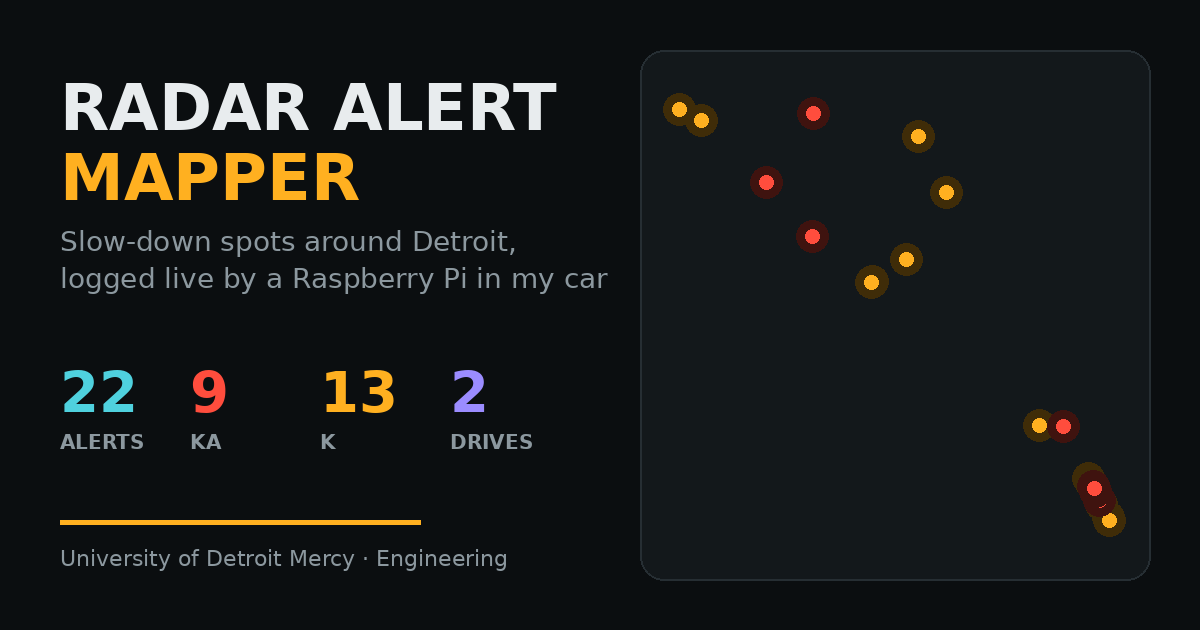
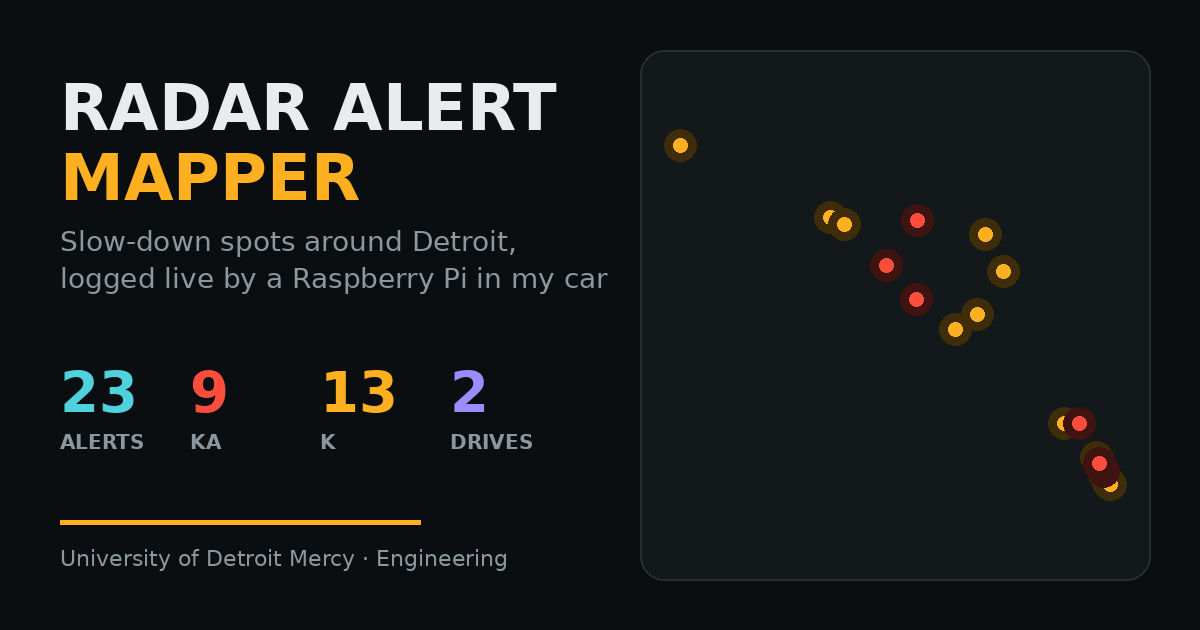
Update map: 68 alerts

diff --git a/data.js b/data.js
@@ -1,1 +1,1 @@
-window.RADAR_DATA = {"updated":"2026-10-30 18:27:30","alerts":[{"t":"2026-10-25 21:41:58","lat":42.416682,"lon":-83.160488,"band":"K","freq":"24.137","len":59.5,"bars":7.0,"status":"False","reason":"muted","photo":"photos/20261025_214158_K.jpg","heading":null,"arrow":"ahead","near":"near Wyoming Street","near_m":8},{"t":"2026-10-25 21:44:04","lat":42.416241,"lon":-83.160294,"band":"K","freq":"24.185","len":4.1,"bars":3.0,"status":"False","reason":"muted","photo":"photos/20261025_214404_K.jpg","heading":"NW","arrow":"ahead","near":"The Q Rental Hall, Wyoming Street","near_m":80},{"t":"2026-10-25 21:44:11","lat":42.416369,"lon":-83.160516,"band":"K","freq":"24.185","len":273.2,"bars":7.0,"status":"False","reason":"muted","photo":"photos/20261025_214411_K.jpg","heading":null,"arrow":"behind","near":"CVS Pharmacy, West McNichols Road","near_m":33},{"t":"2026-10-25 21:51:23","lat":42.416702,"lon":-83.160348,"band":"K","freq":"24.185","len":8.3,"bars":3.0,"status":"Valid","reason":"","photo":"photos/20261025_215123_K.jpg","heading":"S","arrow":"behind"},{"t":"2026-10-25 21:58:33","lat":42.366629,"lon":-83.081553,"band":"K","freq":"24.181","len":27.3,"bars":3.0,"status":"Valid","reason":"","photo":"photos/20261025_215833_K.jpg","heading":"SE","arrow":"ahead"},{"t":"2026-10-25 22:01:44","lat":42.327806,"lon":-83.048029,"band":"K","freq":"24.140","len":1.5,"bars":0.0,"status":"False","reason":"muted","photo":"photos/20261025_220144_K.jpg","heading":"NW","arrow":"ahead","near":"Fort Pontchartrain Detroit a Wyndham Hotel, Washington Boulevard","near_m":35},{"t":"2026-10-25 22:03:01","lat":42.330727,"lon":-83.047393,"band":"K","freq":"24.180","len":32.5,"bars":7.0,"status":"False","reason":"muted","photo":"photos/20261025_220301_K.jpg","heading":"N","arrow":"ahead","near":"near Fort Street West","near_m":2},{"t":"2026-10-25 22:03:35","lat":42.331725,"lon":-83.04889,"band":"K","freq":"24.180","len":1.5,"bars":0.0,"status":"False","reason":"muted","photo":"photos/20261025_220335_K.jpg","heading":"W","arrow":"behind","near":"Tip Toe Shoe Repair, Michigan Avenue","near_m":25},{"t":"2026-10-25 22:04:08","lat":42.33176,"lon":-83.050674,"band":"K","freq":"24.174","len":4.5,"bars":3.0,"status":"False","reason":"muted","photo":"photos/20261025_220408_K.jpg","heading":"NW","arrow":"behind","near":"The Westin Book Cadillac Detroit, Washington Boulevard","near_m":46},{"t":"2026-10-25 22:07:15","lat":42.337064,"lon":-83.050627,"band":"K","freq":"24.123","len":9.5,"bars":3.0,"status":"False","reason":"muted","photo":"photos/20261025_220715_K.jpg","heading":"SW","arrow":"behind","near":"near Adams Avenue East","near_m":36},{"t":"2026-10-25 22:08:50","lat":42.334785,"lon":-83.049314,"band":"K","freq":"24.137","len":17.8,"bars":2.0,"status":"False","reason":"muted","photo":"photos/20261025_220850_K.jpg","heading":null,"arrow":"side","near":"Warby Parker, Woodward Avenue","near_m":15},{"t":"2026-10-25 22:30:01","lat":42.330438,"lon":-83.043528,"band":"K","freq":"24.220","len":1.5,"bars":0.0,"status":"False","reason":"muted","photo":"photos/20261025_223001_K.jpg","heading":"NE","arrow":"ahead","near":"Two Detroit Center Garage, East Congress Street","near_m":36},{"t":"2026-10-25 22:30:07","lat":42.330479,"lon":-83.043534,"band":"K","freq":"24.220","len":1.5,"bars":0.0,"status":"False","reason":"muted","photo":"photos/20261025_223007_K.jpg","heading":"NE","arrow":"ahead","near":"Two Detroit Center Garage, East Congress Street","near_m":32},{"t":"2026-10-25 22:30:10","lat":42.330494,"lon":-83.043529,"band":"K","freq":"24.220","len":1.5,"bars":0.0,"status":"False","reason":"muted","photo":"photos/20261025_223010_K.jpg","heading":"NE","arrow":"ahead","near":"Two Detroit Center Garage, East Congress Street","near_m":30},{"t":"2026-10-25 22:30:13","lat":42.33047,"lon":-83.04346,"band":"K","freq":"24.220","len":1.5,"bars":0.0,"status":"False","reason":"muted","photo":"photos/20261025_223013_K.jpg","heading":"NE","arrow":"ahead","near":"Two Detroit Center Garage, East Congress Street","near_m":31},{"t":"2026-10-25 22:30:17","lat":42.330403,"lon":-83.043324,"band":"K","freq":"24.220","len":1.5,"bars":0.0,"status":"False","reason":"muted","photo":"photos/20261025_223017_K.jpg","heading":"NE","arrow":"ahead","near":"Two Detroit Center Garage, East Congress Street","near_m":38},{"t":"2026-10-25 22:30:20","lat":42.330382,"lon":-83.043276,"band":"K","freq":"24.220","len":1.5,"bars":0.0,"status":"False","reason":"muted","photo":"photos/20261025_223020_K.jpg","heading":"NE","arrow":"ahead","near":"Two Detroit Center Garage, East Congress Street","near_m":41},{"t":"2026-10-25 22:30:23","lat":42.33039,"lon":-83.043252,"band":"K","freq":"24.220","len":1.5,"bars":0.0,"status":"False","reason":"muted","photo":"photos/20261025_223023_K.jpg","heading":"NE","arrow":"ahead","near":"Two Detroit Center Garage, East Congress Street","near_m":41},{"t":"2026-10-25 22:30:26","lat":42.330412,"lon":-83.043241,"band":"K","freq":"24.220","len":1.5,"bars":0.0,"status":"False","reason":"muted","photo":"photos/20261025_223026_K.jpg","heading":"NE","arrow":"ahead","near":"Two Detroit Center Garage, East Congress Street","near_m":39},{"t":"2026-10-25 22:30:30","lat":42.330453,"lon":-83.043238,"band":"K","freq":"24.220","len":1.5,"bars":0.0,"status":"False","reason":"muted","photo":"photos/20261025_223030_K.jpg","heading":"NE","arrow":"ahead","near":"Two Detroit Center Garage, East Congress Street","near_m":35},{"t":"2026-10-25 22:30:36","lat":42.33047,"lon":-83.043249,"band":"K","freq":"24.220","len":1.5,"bars":0.0,"status":"False","reason":"muted","photo":"photos/20261025_223036_K.jpg","heading":"NE","arrow":"ahead","near":"Two Detroit Center Garage, East Congress Street","near_m":32},{"t":"2026-10-25 22:30:40","lat":42.330488,"lon":-83.043251,"band":"K","freq":"24.220","len":1.5,"bars":0.0,"status":"False","reason":"muted","photo":"photos/20261025_223040_K.jpg","heading":"NE","arrow":"ahead","near":"Two Detroit Center Garage, East Congress Street","near_m":31},{"t":"2026-10-25 22:30:43","lat":42.330514,"lon":-83.043269,"band":"K","freq":"24.220","len":1.5,"bars":0.0,"status":"False","reason":"muted","photo":"photos/20261025_223043_K.jpg","heading":"NE","arrow":"ahead","near":"Two Detroit Center Garage, East Congress Street","near_m":27},{"t":"2026-10-25 22:30:46","lat":42.330529,"lon":-83.043284,"band":"K","freq":"24.220","len":1.6,"bars":0.0,"status":"False","reason":"muted","photo":"photos/20261025_223046_K.jpg","heading":"NE","arrow":"side","near":"Two Detroit Center Garage, East Congress Street","near_m":25},{"t":"2026-10-25 22:30:49","lat":42.33054,"lon":-83.043301,"band":"K","freq":"24.220","len":1.6,"bars":0.0,"status":"False","reason":"muted","photo":"photos/20261025_223049_K.jpg","heading":"NE","arrow":"side","near":"Two Detroit Center Garage, East Congress Street","near_m":24},{"t":"2026-10-25 22:44:37","lat":42.352398,"lon":-83.045351,"band":"K","freq":"24.182","len":13.1,"bars":3.0,"status":"False","reason":"muted","photo":"photos/20261025_224437_K.jpg","heading":"SW","arrow":"behind","near":"near Mack Avenue","near_m":10},{"t":"2026-10-25 22:55:59","lat":42.33385,"lon":-83.048782,"band":"K","freq":"24.121","len":35.9,"bars":4.0,"status":"False","reason":"muted","photo":"photos/20261025_225559_K.jpg","heading":null,"arrow":"behind","near":"Lofts of Merchants Row Garage, Woodward Avenue","near_m":14},{"t":"2026-10-25 23:14:12","lat":42.343618,"lon":-83.055203,"band":"Ka","freq":"34.673","len":29.6,"bars":1.0,"status":"Valid","reason":"","photo":"photos/20261025_231412_Ka.jpg","heading":"NW","arrow":"ahead"},{"t":"2026-10-25 23:15:01","lat":42.345321,"lon":-83.056324,"band":"Ka","freq":"34.673","len":24.9,"bars":1.0,"status":"Valid","reason":"","photo":"photos/20261025_231501_Ka.jpg","heading":null,"arrow":"ahead"},{"t":"2026-10-25 23:15:01","lat":42.345321,"lon":-83.056324,"band":"K","freq":"24.104","len":3.4,"bars":1.0,"status":"False","reason":"muted","photo":"photos/20261025_231501_K.jpg","heading":"NW","arrow":"behind","near":"near Woodward Avenue","near_m":52},{"t":"2026-10-25 23:24:02","lat":42.33933,"lon":-83.052561,"band":"K","freq":"24.099","len":5.9,"bars":3.0,"status":"Valid","reason":"","photo":"photos/20261025_232402_K.jpg","heading":"SE","arrow":"behind"},{"t":"2026-10-25 23:24:57","lat":42.334697,"lon":-83.049344,"band":"K","freq":"24.122","len":18.3,"bars":4.0,"status":"Valid","reason":"","photo":"photos/20261025_232457_K.jpg","heading":"SE","arrow":"behind"},{"t":"2026-10-25 23:28:14","lat":42.334718,"lon":-83.049139,"band":"K","freq":"24.122","len":25.1,"bars":6.0,"status":"False","reason":"muted","photo":"photos/20261025_232814_K.jpg","heading":null,"arrow":"behind","near":"House of Pure Vin, Woodward Avenue","near_m":29},{"t":"2026-10-25 23:29:46","lat":42.340766,"lon":-83.053368,"band":"Ka","freq":"34.673","len":12.9,"bars":1.0,"status":"Valid","reason":"","photo":"photos/20261025_232946_Ka.jpg","heading":"NW","arrow":"ahead"},{"t":"2026-10-25 23:30:07","lat":42.343833,"lon":-83.055476,"band":"Ka","freq":"34.673","len":30.0,"bars":1.0,"status":"Valid","reason":"","photo":"photos/20261025_233007_Ka.jpg","heading":"NW","arrow":"ahead"},{"t":"2026-10-25 23:33:33","lat":42.366143,"lon":-83.070489,"band":"Ka","freq":"34.665","len":53.5,"bars":5.0,"status":"Valid","reason":"","photo":"photos/20261025_233333_Ka.jpg","heading":"NW","arrow":"behind"},{"t":"2026-10-25 23:43:45","lat":42.447365,"lon":-83.125508,"band":"K","freq":"24.232","len":14.2,"bars":5.0,"status":"Valid","reason":"","photo":"photos/20261025_234345_K.jpg","heading":"NW","arrow":"ahead"},{"t":"2026-10-25 23:46:35","lat":42.466988,"lon":-83.138698,"band":"K","freq":"24.132","len":8.7,"bars":2.0,"status":"Valid","reason":"","photo":"photos/20261025_234635_K.jpg","heading":"NW","arrow":"behind"},{"t":"2026-10-25 23:50:29","lat":42.474777,"lon":-83.187967,"band":"Ka","freq":"34.719","len":14.7,"bars":1.0,"status":"Valid","reason":"","photo":"photos/20261025_235029_Ka.jpg","heading":"W","arrow":"ahead"},{"t":"2026-10-30 02:11:33","lat":42.424402,"lon":-83.144176,"band":"K","freq":"24.154","len":110.3,"bars":8.0,"status":"Valid","reason":"","photo":"photos/20261030_021133_K.jpg","heading":null,"arrow":"ahead"},{"t":"2026-10-30 02:18:23","lat":42.416547,"lon":-83.188844,"band":"K","freq":"24.142","len":24.1,"bars":8.0,"status":"False","reason":"muted","photo":"photos/20261030_021823_K.jpg","heading":"NW","arrow":"ahead","near":"Valero, West McNichols Road","near_m":30},{"t":"2026-10-30 02:18:55","lat":42.417406,"lon":-83.190049,"band":"K","freq":"24.142","len":6.1,"bars":4.0,"status":"False","reason":"muted","photo":"photos/20261030_021855_K.jpg","heading":"SE","arrow":"ahead","near":"Randolph Career and Technical Center, Hubbell Street","near_m":81},{"t":"2026-10-30 02:19:54","lat":42.417364,"lon":-83.189656,"band":"K","freq":"24.142","len":154.9,"bars":8.0,"status":"False","reason":"muted","photo":"photos/20261030_021954_K.jpg","heading":"S","arrow":"ahead","near":"Randolph Career and Technical Center, Hubbell Street","near_m":112},{"t":"2026-10-30 02:26:56","lat":42.397058,"lon":-83.109161,"band":"K","freq":"24.068","len":0.2,"bars":2.0,"status":"False","reason":"short;muted","photo":"photos/20261030_022656_K.jpg","heading":null,"arrow":"side","near":"near John C Lodge Freeway","near_m":6},{"t":"2026-10-30 02:29:38","lat":42.348463,"lon":-83.070488,"band":"K","freq":"24.074","len":0.0,"bars":5.0,"status":"False","reason":"short;muted","photo":"photos/20261030_022938_K.jpg","heading":null,"arrow":"side","near":"near John C Lodge Freeway","near_m":15},{"t":"2026-10-30 02:29:44","lat":42.346625,"lon":-83.069657,"band":"K","freq":"24.074","len":1.6,"bars":3.0,"status":"False","reason":"muted","photo":"photos/20261030_022944_K.jpg","heading":null,"arrow":null,"near":"near John C Lodge Freeway","near_m":83},{"t":"2026-10-30 02:31:05","lat":42.326788,"lon":-83.051059,"band":"K","freq":"24.142","len":36.6,"bars":6.0,"status":"False","reason":"muted","photo":"photos/20261030_023105_K.jpg","heading":null,"arrow":"side","near":"near Washington Boulevard","near_m":46},{"t":"2026-10-30 02:34:12","lat":42.334235,"lon":-83.049114,"band":"K","freq":"24.136","len":24.0,"bars":5.0,"status":"False","reason":"muted","photo":"photos/20261030_023412_K.jpg","heading":null,"arrow":"behind","near":"near Woodward Avenue","near_m":14},{"t":"2026-10-30 02:36:09","lat":42.344907,"lon":-83.056072,"band":"K","freq":"24.105","len":43.9,"bars":4.0,"status":"False","reason":"muted","photo":"photos/20261030_023609_K.jpg","heading":"NW","arrow":"behind","near":"Cafe Alto, Watson Street","near_m":13},{"t":"2026-10-30 02:36:09","lat":42.344907,"lon":-83.056072,"band":"Ka","freq":"34.673","len":12.9,"bars":1.0,"status":"Valid","reason":"during K","photo":"photos/20261030_023609_Ka.jpg","heading":"NW","arrow":"ahead"},{"t":"2026-10-30 02:37:58","lat":42.348196,"lon":-83.0585,"band":"K","freq":"24.105","len":6.3,"bars":1.0,"status":"Valid","reason":"","photo":"photos/20261030_023758_K.jpg","heading":"SE","arrow":"ahead"},{"t":"2026-10-30 02:41:09","lat":42.333779,"lon":-83.048581,"band":"K","freq":"24.136","len":4.9,"bars":1.0,"status":"Valid","reason":"","photo":"photos/20261030_024109_K.jpg","heading":null,"arrow":"behind"},{"t":"2026-10-30 02:45:00","lat":42.333855,"lon":-83.048523,"band":"K","freq":"24.118","len":1.5,"bars":1.0,"status":"False","reason":"muted","photo":"photos/20261030_024500_K.jpg","heading":"NW","arrow":"ahead","near":"Nike, Woodward Avenue","near_m":31},{"t":"2026-10-30 02:45:06","lat":42.33428,"lon":-83.048801,"band":"K","freq":"24.136","len":30.1,"bars":5.0,"status":"False","reason":"muted","photo":"photos/20261030_024506_K.jpg","heading":"NW","arrow":"side","near":"Bonobos, Woodward Avenue","near_m":28},{"t":"2026-10-30 02:47:02","lat":42.346589,"lon":-83.057251,"band":"K","freq":"24.169","len":7.7,"bars":5.0,"status":"Valid","reason":"","photo":"photos/20261030_024702_K.jpg","heading":"NW","arrow":"behind"},{"t":"2026-10-30 02:53:53","lat":42.392255,"lon":-83.105207,"band":"?","freq":"","len":0.2,"bars":2.0,"status":"False","reason":"short;muted","photo":"photos/20261030_025353_unknown.jpg","heading":null,"arrow":null},{"t":"2026-10-30 02:53:53","lat":42.392255,"lon":-83.105207,"band":"Ka","freq":"33.4-36.0","len":0.2,"bars":0.0,"status":"False","reason":"muted","photo":"photos/20261030_025353_Ka.jpg","heading":null,"arrow":null},{"t":"2026-10-30 02:54:14","lat":42.397909,"lon":-83.109213,"band":"K","freq":"24.127","len":0.2,"bars":2.0,"status":"False","reason":"short;muted","photo":"photos/20261030_025414_K.jpg","heading":"NW","arrow":"side","near":"near John C Lodge Freeway","near_m":7},{"t":"2026-10-30 17:59:25","lat":42.416307,"lon":-83.160451,"band":"K","freq":"24.180","len":20.0,"bars":8.0,"status":"Valid","reason":"","photo":"photos/20261030_175925_K.jpg","heading":null,"arrow":"side","sig":[6,8,8,5,3,4,4,2,0,7,5,4,4,4,4,4,4,0,4,4,3,3,0,3],"peak":[42.416379,-83.160517,8]},{"t":"2026-10-30 18:03:08","lat":42.416734,"lon":-83.160627,"band":"K","freq":"24.180","len":2.4,"bars":7.0,"status":"False","reason":"muted","photo":"photos/20261030_180308_K.jpg","heading":null,"arrow":null,"sig":[8,7,4],"peak":[42.416734,-83.160627,8],"near":"CVS Pharmacy, West McNichols Road","near_m":33},{"t":"2026-10-30 18:03:18","lat":42.416319,"lon":-83.16045,"band":"K","freq":"24.180","len":2.7,"bars":1.0,"status":"False","reason":"muted","photo":"photos/20261030_180318_K.jpg","heading":null,"arrow":"side","sig":[1,3,3,0],"peak":[42.416298,-83.160389,3],"near":"The Q Rental Hall, Wyoming Street","near_m":88},{"t":"2026-10-30 18:05:36","lat":42.409494,"lon":-83.164633,"band":"K","freq":"24.110","len":7.9,"bars":0.0,"status":"False","reason":"muted","photo":"photos/20261030_180536_K.jpg","heading":null,"arrow":"side","sig":[0,0,0,0,0,0,0,0,0],"peak":[42.409531,-83.164664,0],"near":"near James Couzens Freeway","near_m":1},{"t":"2026-10-30 18:09:33","lat":42.432375,"lon":-83.188329,"band":"Ka","freq":"34.094","len":80.0,"bars":3.0,"status":"Valid","reason":"","photo":"photos/20261030_180933_Ka.jpg","heading":"NW","arrow":"ahead","sig":[4,4,5,4,2,1,2,2,3,3,3,4,5,5,3,3,2,4,3,3,4,5,4,0,1,4,3,2,2,3,4],"peak":[42.440279,-83.197272,5]},{"t":"2026-10-30 18:10:59","lat":42.450817,"lon":-83.20982,"band":"Ka","freq":"34.071","len":195.7,"bars":4.0,"status":"Valid","reason":"","photo":"photos/20261030_181059_Ka.jpg","heading":null,"arrow":"ahead","sig":[5,4,4,5,5,3,2,2,2,2,0,5,5,4,2,0,0,5,7,6,4,3,4,5,5,5,4,7,7,6,4,3,2,0,0,0,0,0],"peak":[42.469194,-83.236211,7]},{"t":"2026-10-30 18:20:57","lat":42.476183,"lon":-83.250642,"band":"K","freq":"24.106","len":4.1,"bars":0.0,"status":"Valid","reason":"","photo":"photos/20261030_182057_K.jpg","heading":null,"arrow":"side","sig":[0,0,0,0,0],"peak":[42.476144,-83.250598,0]},{"t":"2026-10-30 18:21:32","lat":42.476791,"lon":-83.248324,"band":"K","freq":"24.110","len":4.7,"bars":0.0,"status":"False","reason":"muted","photo":"photos/20261030_182132_K.jpg","heading":null,"arrow":null,"sig":[0,0,0,0,0,0],"peak":[42.476562,-83.247911,0],"near":"near Northwestern Highway","near_m":5},{"t":"2026-10-30 18:24:34","lat":42.472391,"lon":-83.240765,"band":"K","freq":"24.150","len":5.9,"bars":5.0,"status":"Valid","reason":"","photo":"photos/20261030_182434_K.jpg","heading":"W","arrow":"ahead","sig":[5,5,5,0,2,0,0],"peak":[42.472403,-83.240837,5]}],"tracks":[],"track_start":[]};
+window.RADAR_DATA = {"updated":"2026-10-30 19:52:19","alerts":[{"t":"2026-10-25 21:41:58","lat":42.416682,"lon":-83.160488,"band":"K","freq":"24.137","len":59.5,"bars":7.0,"status":"False","reason":"muted","photo":"photos/20261025_214158_K.jpg","heading":null,"arrow":"ahead","near":"near Wyoming Street","near_m":8},{"t":"2026-10-25 21:44:04","lat":42.416241,"lon":-83.160294,"band":"K","freq":"24.185","len":4.1,"bars":3.0,"status":"False","reason":"muted","photo":"photos/20261025_214404_K.jpg","heading":"NW","arrow":"ahead","near":"The Q Rental Hall, Wyoming Street","near_m":80},{"t":"2026-10-25 21:44:11","lat":42.416369,"lon":-83.160516,"band":"K","freq":"24.185","len":273.2,"bars":7.0,"status":"False","reason":"muted","photo":"photos/20261025_214411_K.jpg","heading":null,"arrow":"behind","near":"CVS Pharmacy, West McNichols Road","near_m":33},{"t":"2026-10-25 21:51:23","lat":42.416702,"lon":-83.160348,"band":"K","freq":"24.185","len":8.3,"bars":3.0,"status":"Valid","reason":"","photo":"photos/20261025_215123_K.jpg","heading":"S","arrow":"behind"},{"t":"2026-10-25 21:58:33","lat":42.366629,"lon":-83.081553,"band":"K","freq":"24.181","len":27.3,"bars":3.0,"status":"Valid","reason":"","photo":"photos/20261025_215833_K.jpg","heading":"SE","arrow":"ahead"},{"t":"2026-10-25 22:01:44","lat":42.327806,"lon":-83.048029,"band":"K","freq":"24.140","len":1.5,"bars":0.0,"status":"False","reason":"muted","photo":"photos/20261025_220144_K.jpg","heading":"NW","arrow":"ahead","near":"Fort Pontchartrain Detroit a Wyndham Hotel, Washington Boulevard","near_m":35},{"t":"2026-10-25 22:03:01","lat":42.330727,"lon":-83.047393,"band":"K","freq":"24.180","len":32.5,"bars":7.0,"status":"False","reason":"muted","photo":"photos/20261025_220301_K.jpg","heading":"N","arrow":"ahead","near":"near Fort Street West","near_m":2},{"t":"2026-10-25 22:03:35","lat":42.331725,"lon":-83.04889,"band":"K","freq":"24.180","len":1.5,"bars":0.0,"status":"False","reason":"muted","photo":"photos/20261025_220335_K.jpg","heading":"W","arrow":"behind","near":"Tip Toe Shoe Repair, Michigan Avenue","near_m":25},{"t":"2026-10-25 22:04:08","lat":42.33176,"lon":-83.050674,"band":"K","freq":"24.174","len":4.5,"bars":3.0,"status":"False","reason":"muted","photo":"photos/20261025_220408_K.jpg","heading":"NW","arrow":"behind","near":"The Westin Book Cadillac Detroit, Washington Boulevard","near_m":46},{"t":"2026-10-25 22:07:15","lat":42.337064,"lon":-83.050627,"band":"K","freq":"24.123","len":9.5,"bars":3.0,"status":"False","reason":"muted","photo":"photos/20261025_220715_K.jpg","heading":"SW","arrow":"behind","near":"near Adams Avenue East","near_m":36},{"t":"2026-10-25 22:08:50","lat":42.334785,"lon":-83.049314,"band":"K","freq":"24.137","len":17.8,"bars":2.0,"status":"False","reason":"muted","photo":"photos/20261025_220850_K.jpg","heading":null,"arrow":"side","near":"Warby Parker, Woodward Avenue","near_m":15},{"t":"2026-10-25 22:30:01","lat":42.330438,"lon":-83.043528,"band":"K","freq":"24.220","len":1.5,"bars":0.0,"status":"False","reason":"muted","photo":"photos/20261025_223001_K.jpg","heading":"NE","arrow":"ahead","near":"Two Detroit Center Garage, East Congress Street","near_m":36},{"t":"2026-10-25 22:30:07","lat":42.330479,"lon":-83.043534,"band":"K","freq":"24.220","len":1.5,"bars":0.0,"status":"False","reason":"muted","photo":"photos/20261025_223007_K.jpg","heading":"NE","arrow":"ahead","near":"Two Detroit Center Garage, East Congress Street","near_m":32},{"t":"2026-10-25 22:30:10","lat":42.330494,"lon":-83.043529,"band":"K","freq":"24.220","len":1.5,"bars":0.0,"status":"False","reason":"muted","photo":"photos/20261025_223010_K.jpg","heading":"NE","arrow":"ahead","near":"Two Detroit Center Garage, East Congress Street","near_m":30},{"t":"2026-10-25 22:30:13","lat":42.33047,"lon":-83.04346,"band":"K","freq":"24.220","len":1.5,"bars":0.0,"status":"False","reason":"muted","photo":"photos/20261025_223013_K.jpg","heading":"NE","arrow":"ahead","near":"Two Detroit Center Garage, East Congress Street","near_m":31},{"t":"2026-10-25 22:30:17","lat":42.330403,"lon":-83.043324,"band":"K","freq":"24.220","len":1.5,"bars":0.0,"status":"False","reason":"muted","photo":"photos/20261025_223017_K.jpg","heading":"NE","arrow":"ahead","near":"Two Detroit Center Garage, East Congress Street","near_m":38},{"t":"2026-10-25 22:30:20","lat":42.330382,"lon":-83.043276,"band":"K","freq":"24.220","len":1.5,"bars":0.0,"status":"False","reason":"muted","photo":"photos/20261025_223020_K.jpg","heading":"NE","arrow":"ahead","near":"Two Detroit Center Garage, East Congress Street","near_m":41},{"t":"2026-10-25 22:30:23","lat":42.33039,"lon":-83.043252,"band":"K","freq":"24.220","len":1.5,"bars":0.0,"status":"False","reason":"muted","photo":"photos/20261025_223023_K.jpg","heading":"NE","arrow":"ahead","near":"Two Detroit Center Garage, East Congress Street","near_m":41},{"t":"2026-10-25 22:30:26","lat":42.330412,"lon":-83.043241,"band":"K","freq":"24.220","len":1.5,"bars":0.0,"status":"False","reason":"muted","photo":"photos/20261025_223026_K.jpg","heading":"NE","arrow":"ahead","near":"Two Detroit Center Garage, East Congress Street","near_m":39},{"t":"2026-10-25 22:30:30","lat":42.330453,"lon":-83.043238,"band":"K","freq":"24.220","len":1.5,"bars":0.0,"status":"False","reason":"muted","photo":"photos/20261025_223030_K.jpg","heading":"NE","arrow":"ahead","near":"Two Detroit Center Garage, East Congress Street","near_m":35},{"t":"2026-10-25 22:30:36","lat":42.33047,"lon":-83.043249,"band":"K","freq":"24.220","len":1.5,"bars":0.0,"status":"False","reason":"muted","photo":"photos/20261025_223036_K.jpg","heading":"NE","arrow":"ahead","near":"Two Detroit Center Garage, East Congress Street","near_m":32},{"t":"2026-10-25 22:30:40","lat":42.330488,"lon":-83.043251,"band":"K","freq":"24.220","len":1.5,"bars":0.0,"status":"False","reason":"muted","photo":"photos/20261025_223040_K.jpg","heading":"NE","arrow":"ahead","near":"Two Detroit Center Garage, East Congress Street","near_m":31},{"t":"2026-10-25 22:30:43","lat":42.330514,"lon":-83.043269,"band":"K","freq":"24.220","len":1.5,"bars":0.0,"status":"False","reason":"muted","photo":"photos/20261025_223043_K.jpg","heading":"NE","arrow":"ahead","near":"Two Detroit Center Garage, East Congress Street","near_m":27},{"t":"2026-10-25 22:30:46","lat":42.330529,"lon":-83.043284,"band":"K","freq":"24.220","len":1.6,"bars":0.0,"status":"False","reason":"muted","photo":"photos/20261025_223046_K.jpg","heading":"NE","arrow":"side","near":"Two Detroit Center Garage, East Congress Street","near_m":25},{"t":"2026-10-25 22:30:49","lat":42.33054,"lon":-83.043301,"band":"K","freq":"24.220","len":1.6,"bars":0.0,"status":"False","reason":"muted","photo":"photos/20261025_223049_K.jpg","heading":"NE","arrow":"side","near":"Two Detroit Center Garage, East Congress Street","near_m":24},{"t":"2026-10-25 22:44:37","lat":42.352398,"lon":-83.045351,"band":"K","freq":"24.182","len":13.1,"bars":3.0,"status":"False","reason":"muted","photo":"photos/20261025_224437_K.jpg","heading":"SW","arrow":"behind","near":"near Mack Avenue","near_m":10},{"t":"2026-10-25 22:55:59","lat":42.33385,"lon":-83.048782,"band":"K","freq":"24.121","len":35.9,"bars":4.0,"status":"False","reason":"muted","photo":"photos/20261025_225559_K.jpg","heading":null,"arrow":"behind","near":"Lofts of Merchants Row Garage, Woodward Avenue","near_m":14},{"t":"2026-10-25 23:14:12","lat":42.343618,"lon":-83.055203,"band":"Ka","freq":"34.673","len":29.6,"bars":1.0,"status":"Valid","reason":"","photo":"photos/20261025_231412_Ka.jpg","heading":"NW","arrow":"ahead"},{"t":"2026-10-25 23:15:01","lat":42.345321,"lon":-83.056324,"band":"Ka","freq":"34.673","len":24.9,"bars":1.0,"status":"Valid","reason":"","photo":"photos/20261025_231501_Ka.jpg","heading":null,"arrow":"ahead"},{"t":"2026-10-25 23:15:01","lat":42.345321,"lon":-83.056324,"band":"K","freq":"24.104","len":3.4,"bars":1.0,"status":"False","reason":"muted","photo":"photos/20261025_231501_K.jpg","heading":"NW","arrow":"behind","near":"near Woodward Avenue","near_m":52},{"t":"2026-10-25 23:24:02","lat":42.33933,"lon":-83.052561,"band":"K","freq":"24.099","len":5.9,"bars":3.0,"status":"Valid","reason":"","photo":"photos/20261025_232402_K.jpg","heading":"SE","arrow":"behind"},{"t":"2026-10-25 23:24:57","lat":42.334697,"lon":-83.049344,"band":"K","freq":"24.122","len":18.3,"bars":4.0,"status":"Valid","reason":"","photo":"photos/20261025_232457_K.jpg","heading":"SE","arrow":"behind"},{"t":"2026-10-25 23:28:14","lat":42.334718,"lon":-83.049139,"band":"K","freq":"24.122","len":25.1,"bars":6.0,"status":"False","reason":"muted","photo":"photos/20261025_232814_K.jpg","heading":null,"arrow":"behind","near":"House of Pure Vin, Woodward Avenue","near_m":29},{"t":"2026-10-25 23:29:46","lat":42.340766,"lon":-83.053368,"band":"Ka","freq":"34.673","len":12.9,"bars":1.0,"status":"Valid","reason":"","photo":"photos/20261025_232946_Ka.jpg","heading":"NW","arrow":"ahead"},{"t":"2026-10-25 23:30:07","lat":42.343833,"lon":-83.055476,"band":"Ka","freq":"34.673","len":30.0,"bars":1.0,"status":"Valid","reason":"","photo":"photos/20261025_233007_Ka.jpg","heading":"NW","arrow":"ahead"},{"t":"2026-10-25 23:33:33","lat":42.366143,"lon":-83.070489,"band":"Ka","freq":"34.665","len":53.5,"bars":5.0,"status":"Valid","reason":"","photo":"photos/20261025_233333_Ka.jpg","heading":"NW","arrow":"behind"},{"t":"2026-10-25 23:43:45","lat":42.447365,"lon":-83.125508,"band":"K","freq":"24.232","len":14.2,"bars":5.0,"status":"Valid","reason":"","photo":"photos/20261025_234345_K.jpg","heading":"NW","arrow":"ahead"},{"t":"2026-10-25 23:46:35","lat":42.466988,"lon":-83.138698,"band":"K","freq":"24.132","len":8.7,"bars":2.0,"status":"Valid","reason":"","photo":"photos/20261025_234635_K.jpg","heading":"NW","arrow":"behind"},{"t":"2026-10-25 23:50:29","lat":42.474777,"lon":-83.187967,"band":"Ka","freq":"34.719","len":14.7,"bars":1.0,"status":"Valid","reason":"","photo":"photos/20261025_235029_Ka.jpg","heading":"W","arrow":"ahead"},{"t":"2026-10-30 02:11:33","lat":42.424402,"lon":-83.144176,"band":"K","freq":"24.154","len":110.3,"bars":8.0,"status":"Valid","reason":"","photo":"photos/20261030_021133_K.jpg","heading":null,"arrow":"ahead"},{"t":"2026-10-30 02:18:23","lat":42.416547,"lon":-83.188844,"band":"K","freq":"24.142","len":24.1,"bars":8.0,"status":"False","reason":"muted","photo":"photos/20261030_021823_K.jpg","heading":"NW","arrow":"ahead","near":"Valero, West McNichols Road","near_m":30},{"t":"2026-10-30 02:18:55","lat":42.417406,"lon":-83.190049,"band":"K","freq":"24.142","len":6.1,"bars":4.0,"status":"False","reason":"muted","photo":"photos/20261030_021855_K.jpg","heading":"SE","arrow":"ahead","near":"Randolph Career and Technical Center, Hubbell Street","near_m":81},{"t":"2026-10-30 02:19:54","lat":42.417364,"lon":-83.189656,"band":"K","freq":"24.142","len":154.9,"bars":8.0,"status":"False","reason":"muted","photo":"photos/20261030_021954_K.jpg","heading":"S","arrow":"ahead","near":"Randolph Career and Technical Center, Hubbell Street","near_m":112},{"t":"2026-10-30 02:26:56","lat":42.397058,"lon":-83.109161,"band":"K","freq":"24.068","len":0.2,"bars":2.0,"status":"False","reason":"short;muted","photo":"photos/20261030_022656_K.jpg","heading":null,"arrow":"side","near":"near John C Lodge Freeway","near_m":6},{"t":"2026-10-30 02:29:38","lat":42.348463,"lon":-83.070488,"band":"K","freq":"24.074","len":0.0,"bars":5.0,"status":"False","reason":"short;muted","photo":"photos/20261030_022938_K.jpg","heading":null,"arrow":"side","near":"near John C Lodge Freeway","near_m":15},{"t":"2026-10-30 02:29:44","lat":42.346625,"lon":-83.069657,"band":"K","freq":"24.074","len":1.6,"bars":3.0,"status":"False","reason":"muted","photo":"photos/20261030_022944_K.jpg","heading":null,"arrow":null,"near":"near John C Lodge Freeway","near_m":83},{"t":"2026-10-30 02:31:05","lat":42.326788,"lon":-83.051059,"band":"K","freq":"24.142","len":36.6,"bars":6.0,"status":"False","reason":"muted","photo":"photos/20261030_023105_K.jpg","heading":null,"arrow":"side","near":"near Washington Boulevard","near_m":46},{"t":"2026-10-30 02:34:12","lat":42.334235,"lon":-83.049114,"band":"K","freq":"24.136","len":24.0,"bars":5.0,"status":"False","reason":"muted","photo":"photos/20261030_023412_K.jpg","heading":null,"arrow":"behind","near":"near Woodward Avenue","near_m":14},{"t":"2026-10-30 02:36:09","lat":42.344907,"lon":-83.056072,"band":"K","freq":"24.105","len":43.9,"bars":4.0,"status":"False","reason":"muted","photo":"photos/20261030_023609_K.jpg","heading":"NW","arrow":"behind","near":"Cafe Alto, Watson Street","near_m":13},{"t":"2026-10-30 02:36:09","lat":42.344907,"lon":-83.056072,"band":"Ka","freq":"34.673","len":12.9,"bars":1.0,"status":"Valid","reason":"during K","photo":"photos/20261030_023609_Ka.jpg","heading":"NW","arrow":"ahead"},{"t":"2026-10-30 02:37:58","lat":42.348196,"lon":-83.0585,"band":"K","freq":"24.105","len":6.3,"bars":1.0,"status":"Valid","reason":"","photo":"photos/20261030_023758_K.jpg","heading":"SE","arrow":"ahead"},{"t":"2026-10-30 02:41:09","lat":42.333779,"lon":-83.048581,"band":"K","freq":"24.136","len":4.9,"bars":1.0,"status":"Valid","reason":"","photo":"photos/20261030_024109_K.jpg","heading":null,"arrow":"behind"},{"t":"2026-10-30 02:45:00","lat":42.333855,"lon":-83.048523,"band":"K","freq":"24.118","len":1.5,"bars":1.0,"status":"False","reason":"muted","photo":"photos/20261030_024500_K.jpg","heading":"NW","arrow":"ahead","near":"Nike, Woodward Avenue","near_m":31},{"t":"2026-10-30 02:45:06","lat":42.33428,"lon":-83.048801,"band":"K","freq":"24.136","len":30.1,"bars":5.0,"status":"False","reason":"muted","photo":"photos/20261030_024506_K.jpg","heading":"NW","arrow":"side","near":"Bonobos, Woodward Avenue","near_m":28},{"t":"2026-10-30 02:47:02","lat":42.346589,"lon":-83.057251,"band":"K","freq":"24.169","len":7.7,"bars":5.0,"status":"Valid","reason":"","photo":"photos/20261030_024702_K.jpg","heading":"NW","arrow":"behind"},{"t":"2026-10-30 02:53:53","lat":42.392255,"lon":-83.105207,"band":"?","freq":"","len":0.2,"bars":2.0,"status":"False","reason":"short;muted","photo":"photos/20261030_025353_unknown.jpg","heading":null,"arrow":null},{"t":"2026-10-30 02:53:53","lat":42.392255,"lon":-83.105207,"band":"Ka","freq":"33.4-36.0","len":0.2,"bars":0.0,"status":"False","reason":"muted","photo":"photos/20261030_025353_Ka.jpg","heading":null,"arrow":null},{"t":"2026-10-30 02:54:14","lat":42.397909,"lon":-83.109213,"band":"K","freq":"24.127","len":0.2,"bars":2.0,"status":"False","reason":"short;muted","photo":"photos/20261030_025414_K.jpg","heading":"NW","arrow":"side","near":"near John C Lodge Freeway","near_m":7},{"t":"2026-10-30 17:59:25","lat":42.416307,"lon":-83.160451,"band":"K","freq":"24.180","len":20.0,"bars":8.0,"status":"Valid","reason":"","photo":"photos/20261030_175925_K.jpg","heading":null,"arrow":"side","sig":[6,8,8,5,3,4,4,2,0,7,5,4,4,4,4,4,4,0,4,4,3,3,0,3],"peak":[42.416379,-83.160517,8]},{"t":"2026-10-30 18:03:08","lat":42.416734,"lon":-83.160627,"band":"K","freq":"24.180","len":2.4,"bars":7.0,"status":"False","reason":"muted","photo":"photos/20261030_180308_K.jpg","heading":null,"arrow":null,"sig":[8,7,4],"peak":[42.416734,-83.160627,8],"near":"CVS Pharmacy, West McNichols Road","near_m":33},{"t":"2026-10-30 18:03:18","lat":42.416319,"lon":-83.16045,"band":"K","freq":"24.180","len":2.7,"bars":1.0,"status":"False","reason":"muted","photo":"photos/20261030_180318_K.jpg","heading":null,"arrow":"side","sig":[1,3,3,0],"peak":[42.416298,-83.160389,3],"near":"The Q Rental Hall, Wyoming Street","near_m":88},{"t":"2026-10-30 18:05:36","lat":42.409494,"lon":-83.164633,"band":"K","freq":"24.110","len":7.9,"bars":0.0,"status":"False","reason":"muted","photo":"photos/20261030_180536_K.jpg","heading":null,"arrow":"side","sig":[0,0,0,0,0,0,0,0,0],"peak":[42.409531,-83.164664,0],"near":"near James Couzens Freeway","near_m":1},{"t":"2026-10-30 18:09:33","lat":42.432375,"lon":-83.188329,"band":"Ka","freq":"34.094","len":80.0,"bars":3.0,"status":"Valid","reason":"","photo":"photos/20261030_180933_Ka.jpg","heading":"NW","arrow":"ahead","sig":[4,4,5,4,2,1,2,2,3,3,3,4,5,5,3,3,2,4,3,3,4,5,4,0,1,4,3,2,2,3,4],"peak":[42.440279,-83.197272,5]},{"t":"2026-10-30 18:10:59","lat":42.450817,"lon":-83.20982,"band":"Ka","freq":"34.071","len":195.7,"bars":4.0,"status":"Valid","reason":"","photo":"photos/20261030_181059_Ka.jpg","heading":null,"arrow":"ahead","sig":[5,4,4,5,5,3,2,2,2,2,0,5,5,4,2,0,0,5,7,6,4,3,4,5,5,5,4,7,7,6,4,3,2,0,0,0,0,0],"peak":[42.469194,-83.236211,7]},{"t":"2026-10-30 18:20:57","lat":42.476183,"lon":-83.250642,"band":"K","freq":"24.106","len":4.1,"bars":0.0,"status":"Valid","reason":"","photo":"photos/20261030_182057_K.jpg","heading":null,"arrow":"side","sig":[0,0,0,0,0],"peak":[42.476144,-83.250598,0]},{"t":"2026-10-30 18:21:32","lat":42.476791,"lon":-83.248324,"band":"K","freq":"24.110","len":4.7,"bars":0.0,"status":"False","reason":"muted","photo":"photos/20261030_182132_K.jpg","heading":null,"arrow":null,"sig":[0,0,0,0,0,0],"peak":[42.476562,-83.247911,0],"near":"near Northwestern Highway","near_m":5},{"t":"2026-10-30 18:24:34","lat":42.472391,"lon":-83.240765,"band":"K","freq":"24.150","len":5.9,"bars":5.0,"status":"Valid","reason":"","photo":"photos/20261030_182434_K.jpg","heading":"W","arrow":"ahead","sig":[5,5,5,0,2,0,0],"peak":[42.472403,-83.240837,5]},{"t":"2026-10-30 19:51:50","lat":42.514789,"lon":-83.359345,"band":"?","freq":"","len":9.5,"bars":1.0,"status":"Valid","reason":"","photo":"photos/20261030_195150_unknown.jpg","heading":"N","arrow":"side","sig":[0,0,0,0,0,0,0,0,0,1,0,0,0,0,0,0],"peak":[42.516216,-83.359421,1]}],"tracks":[],"track_start":[]};

diff --git a/health.js b/health.js
@@ -1,1 +1,1 @@
-window.RADAR_HEALTH = {"seen": "2026-10-30 19:42:05", "logger": "inactive", "gps_plugged": true, "gps_last": "2026-10-30 18:47:06", "temp_c": 44.1, "disk_free_gb": 112.3, "disk_used_pct": 6};
+window.RADAR_HEALTH = {"seen": "2026-10-30 19:52:19", "logger": "active", "gps_plugged": true, "gps_last": "2026-10-30 19:52:17", "temp_c": 51.8, "disk_free_gb": 112.3, "disk_used_pct": 6};
